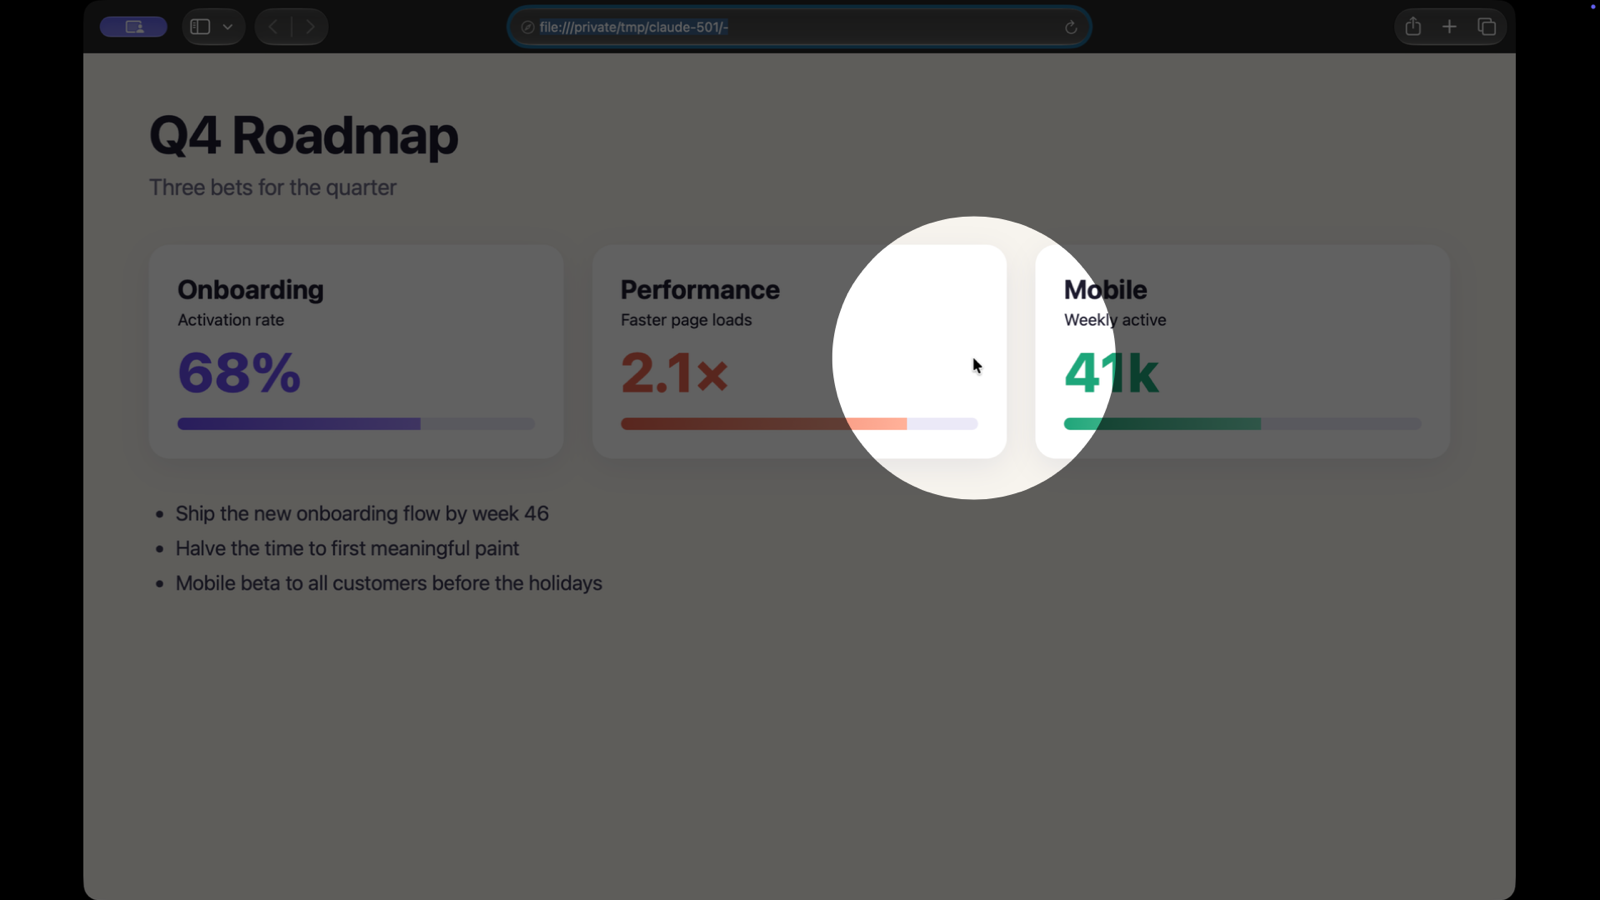
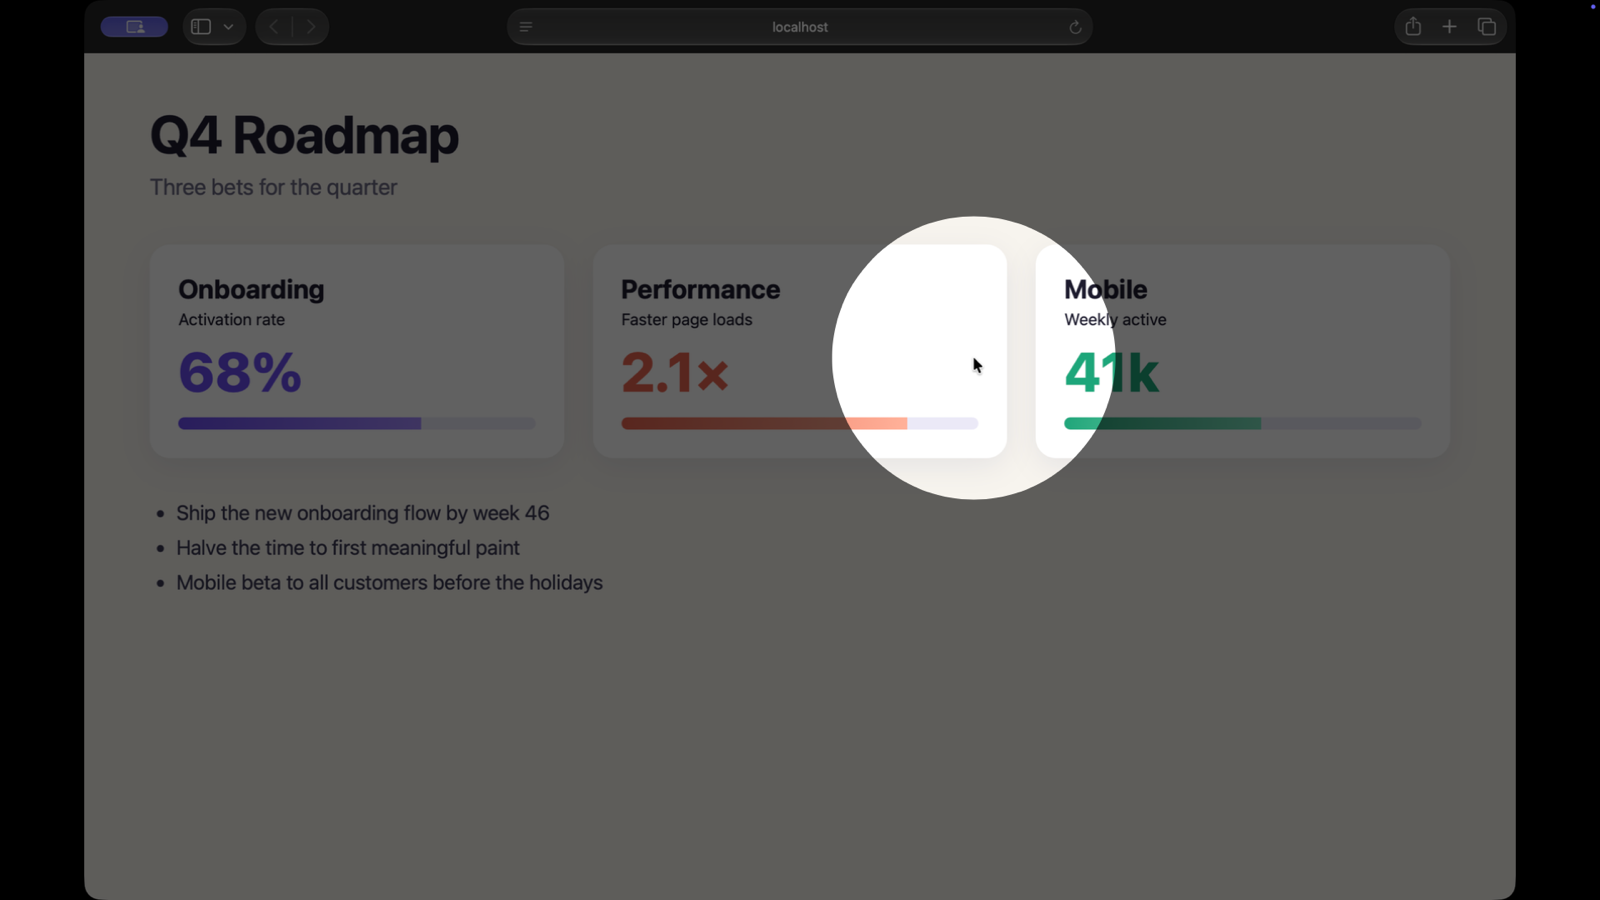
Stagehand 0.3.1: lower idle CPU, new README screenshots
- Pointer timer runs at 8 Hz when no spotlight, highlight or zoom is on (30 Hz only when they are),
  with timer tolerance so macOS can batch wakeups. Idle CPU about 1% down to 0.3%.
- README screenshots show the 0.3 control panel; images about 0.4 MB instead of 1.6 MB

diff --git a/Sources/Stagehand/AppModel.swift b/Sources/Stagehand/AppModel.swift
@@ -22,9 +22,9 @@ final class AppModel: ObservableObject {
     @Published private(set) var hasScreenAccess = CGPreflightScreenCaptureAccess()
     @Published private(set) var displayReady = false
 
-    @Published var spotlight = false
-    @Published var highlight = false
-    @Published var zoomOn = false
+    @Published var spotlight = false { didSet { updateTicker() } }
+    @Published var highlight = false { didSet { updateTicker() } }
+    @Published var zoomOn = false { didSet { updateTicker() } }
     @Published var zoomLevel: Double = UserDefaults.standard.object(forKey: "zoomLevel") as? Double ?? 2 {
         didSet { UserDefaults.standard.set(zoomLevel, forKey: "zoomLevel") }
     }
@@ -73,7 +73,9 @@ final class AppModel: ObservableObject {
     private let hotkeys = Hotkeys()
     private var ownApp: SCRunningApplication?
     private var ticker: Timer?
-    private var tick = 0
+    private var tickerFast = false
+    private var lastFrameCheck = Date.distantPast
+    private var lastSlowWork = Date.distantPast
     private var sourceFrames: [CGRect?] = [nil, nil]
     /// The source shown before `current`, used when side by side is switched on.
     private var previous: Source?
@@ -115,9 +117,7 @@ final class AppModel: ObservableObject {
         captures[1].onStop = { [weak self] _ in self?.paneStopped(1) }
 
         registerHotkeys()
-        ticker = Timer.scheduledTimer(withTimeInterval: 1.0 / 30, repeats: true) { [weak self] _ in
-            MainActor.assumeIsolated { self?.onTick() }
-        }
+        startTicker(fast: false)
         Task { await refreshSources() }
     }
 
@@ -487,8 +487,26 @@ final class AppModel: ObservableObject {
 
     // MARK: Tick
 
+    /// Pointer effects need 30 updates a second to look smooth. Without them, 8 a second is enough to keep
+    /// the pointer off the virtual display and to drive follow mode and countdowns, at a fraction of the wakeups.
+    private var needsFastTick: Bool { spotlight || highlight || zoomOn || zoomScale != 1 }
+
+    private func updateTicker() {
+        if ticker != nil, needsFastTick != tickerFast { startTicker(fast: needsFastTick) }
+    }
+
+    private func startTicker(fast: Bool) {
+        ticker?.invalidate()
+        tickerFast = fast
+        let timer = Timer(timeInterval: fast ? 1.0 / 30 : 1.0 / 8, repeats: true) { [weak self] _ in
+            MainActor.assumeIsolated { self?.onTick() }
+        }
+        timer.tolerance = fast ? 0.005 : 0.03 // lets macOS batch our wakeups with others
+        RunLoop.main.add(timer, forMode: .common)
+        ticker = timer
+    }
+
     private func onTick() {
-        tick += 1
         guard let display, let stage = stageWindow?.stage else { return }
         guard let cursor = CGEvent(source: nil)?.location else { return }
 
@@ -499,14 +517,23 @@ final class AppModel: ObservableObject {
         }
         lastPhysicalCursor = cursor
 
-        if tick % 3 == 0 {
+        let now = Date()
+        if now.timeIntervalSince(lastFrameCheck) >= 0.1 {
+            lastFrameCheck = now
             sourceFrames[0] = current?.currentFrame
             sourceFrames[1] = split ? secondary?.currentFrame : nil
             resizeCapturesIfNeeded()
         }
-        if tick % 8 == 0 {
+        if now.timeIntervalSince(lastSlowWork) >= 0.25 {
+            lastSlowWork = now
             updateCard()
             followTick()
+        }
+        // Zoom easing finished: the fast ticker can step down.
+        if tickerFast, !needsFastTick { updateTicker() }
+        guard tickerFast || zoomScale != 1 else {
+            stage.updateCursor(nil, spotlight: false, highlight: false)
+            return
         }
 
         // Map the pointer into whichever pane shows the window it is over.

diff --git a/README.md b/README.md
@@ -2,7 +2,7 @@
 
 Share one screen in Teams, Zoom, Meet or Slack, then change what it shows with a keystroke, without stopping the share.
 
-![The Stagehand control panel](docs/control-panel.png)
+![The Stagehand control panel](docs/control-panel.jpg)
 
 ## How it works
 
